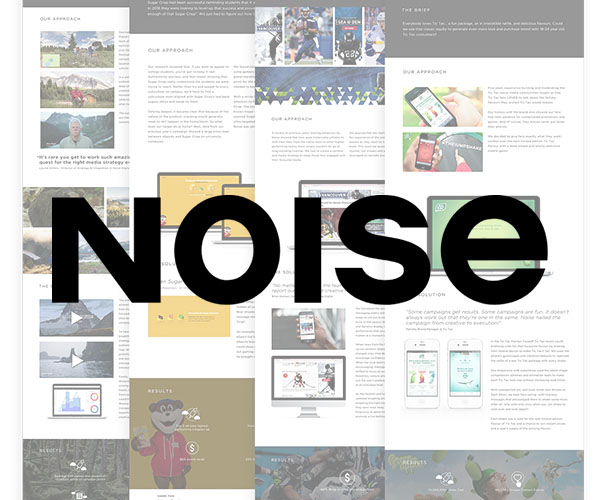
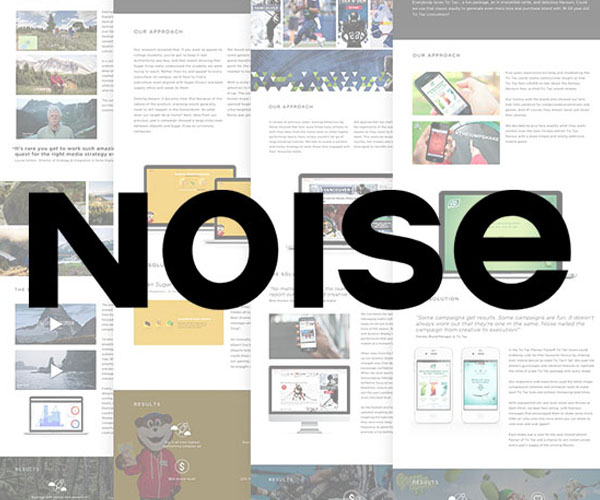
added art section, fixed tablet spacing

diff --git a/illustration.html b/illustration.html
@@ -7,12 +7,11 @@
   <meta charset="UTF-8">
   <meta http-equiv="X-UA-Compatible" content="IE=edge,chrome=1">
   <meta name="viewport" content="width=device-width,initial-scale=1">
-<title>Angela Martinez – Designer & Developer</title>
+  <title>Angela Martinez – Maurice Moore</title>
   <link rel="shortcut icon" href="favicon.ico" type="image/vnd.microsoft.icon">
   <link rel="stylesheet" href="//fonts.googleapis.com/css?family=font1|font2|etc" type="text/css">
   <link rel="stylesheet" href="stylesheet.css" type="text/css">
-  <script src="https://code.jquery.com/jquery-1.10.2.js"></script>
-  <script type="text/javascript" src="workgrid.js">
+  <script type="text/javascript">
   var _gaq = _gaq || [];
   _gaq.push(['_setAccount', 'UA-XXXXXXXX-Y']);
   _gaq.push(['_trackPageview']);
@@ -35,51 +34,48 @@
       </ul>
     </nav>
 
-    <div class="header-content">
-      <h1>Hi! My name is Angela Martinez.</h1>
-      <p>I'm a digital designer and front-end developer from Vancouver, Canada. Currently I work as an experience designer at Best Buy's Canadian HQ.</p>
+    <div class="work-header-content">
+      <h1>Art & Illustration</h1>
       <p class="small">
-      *Sorry, this is still kind of totally under construction – <u>best viewed on Chrome 70.0.3538.77</u>
-    </p>
+        Illustration, design
+      </p>
+      <p>
+        *populating... sry*
+      </p>
+    </div>
+
+      <table style="width:100%">
+        <tr>
+          <th>
+            <img src="images/work/03/content/mauricemoore-amberroom.png">
+      </th>
+          <th>
+            <img src="images/work/03/content/mauricemoore-amberroom-tracklist.png">
+          </th>
+          <th>
+            <img src="images/work/03/content/mauricemoore-thotline.png">
+      </th>
+        </tr>
+        </tr>
+      </table>
     </div>
   </div>
 
-<!-- MAKE GRID BLOCK REUSABLE: TEMPLATE INHERITANCE-->
+
+
   <!--GLOBAL NAV END-->
   <!--FLEXBOX BEGIN-->
-  <div class="grid-container">
-    <div class="grid-item">
-      <a href="bestbuy2018.html">
-        <p class="work-caption"></p>
-          <img class="work-img" src="images/work/01/bestbuy.jpg">
-      </a>
-    </div>
-    <div class="grid-item">
-      <a href="noisedigital.html">
-        <p class="work-caption"></p>
-        <img class="work-img" src="images/work/02/noise.jpg">
-      </a>
-    </div>
-    <div class="grid-item">
-      <a href="mauricemoore.html">
-        <p class="work-caption"></p>
-        <img class="work-img" src="images/work/03/mmcover.jpg">
-      </a>
-    </div>
-    <div class="grid-item">
-      <a href="illustration.html">
-        <p class="work-caption"></p>
-        <img class="work-img" src="images/work/04/illo-cover.jpg" >
-      </a>
-    </div>
-  </div>
+
 
   <footer class="global-footer">
+    <div class="wrapper">
+      <div class="footer-container">
         <ul>
           <li><a class="footer-link" href="https://twitter.com/angelaestelle">Twitter</a></li>
           <li ><a class="footer-link" href="https://www.instagram.com/angelaestelle">Instagram</a></li>
         </ul>
-        <p class="footer-text">ALL CONTENT + SITE DEVELOPMENT + IMAGES + CONTENT © ANGELA MARTINEZ</p>
+        <p class="footer-text">Site & content built by Angela Martinez</p>      </div>
+    </div>
   </footer>
   <script src="//ajax.googleapis.com/ajax/libs/jquery/1.7.2/jquery.min.js" type="text/javascript"></script>
 </body>

diff --git a/stylesheet.css b/stylesheet.css
@@ -390,7 +390,8 @@ table {
 		text-align: left;
 		width: 100%;
 		height: 100%;
-		padding-bottom: 225px;
+		padding-top: 50px;
+		padding-bottom: 200px;
 		background-color: var(fpo--bg2-color);
 	}
 
@@ -479,7 +480,7 @@ table {
 		text-align: left;
 		width: 100%;
 		height: 100%;
-		padding-bottom: 250px;
+		padding-bottom: 270px;
 		background-color: var(fpo--bg2-color);
 	}
 
@@ -561,12 +562,14 @@ table {
 		text-align: left;
 		width: 100%;
 		height: 100%;
-		padding-bottom: 100px;
+		padding-top: 50px;
+		padding-bottom: 150px;
 		background-color: var(fpo--bg2-color);
 	}
 
 	.header-content h1{
 		padding-top: 50px;
+
 	}
 
 
